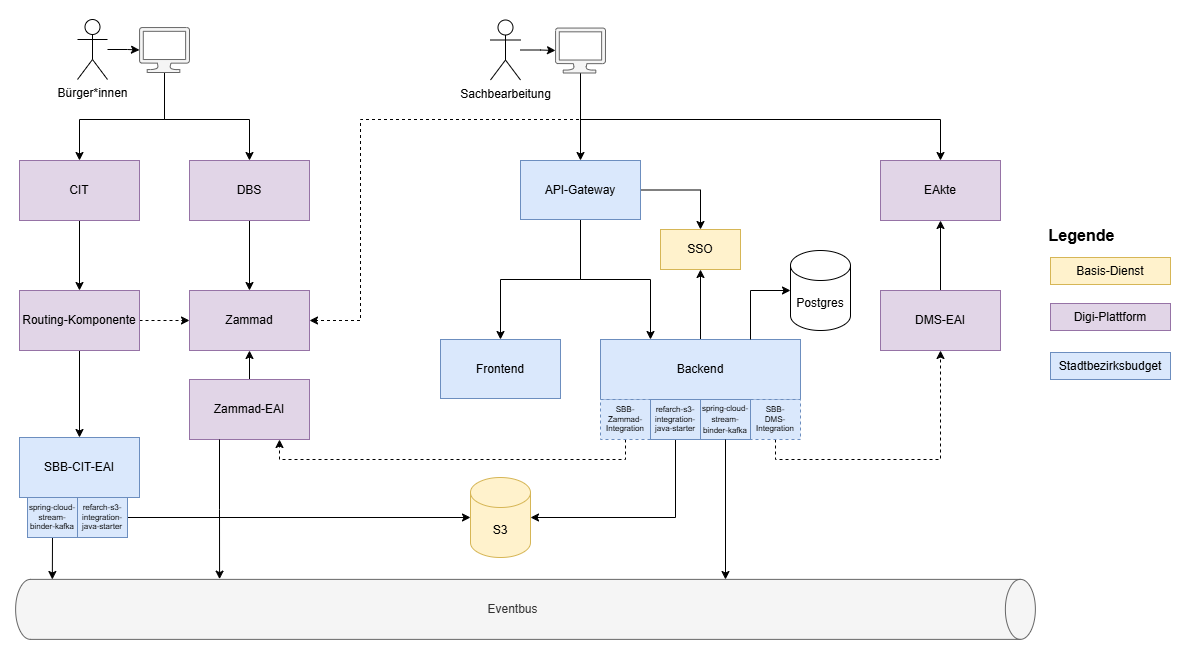
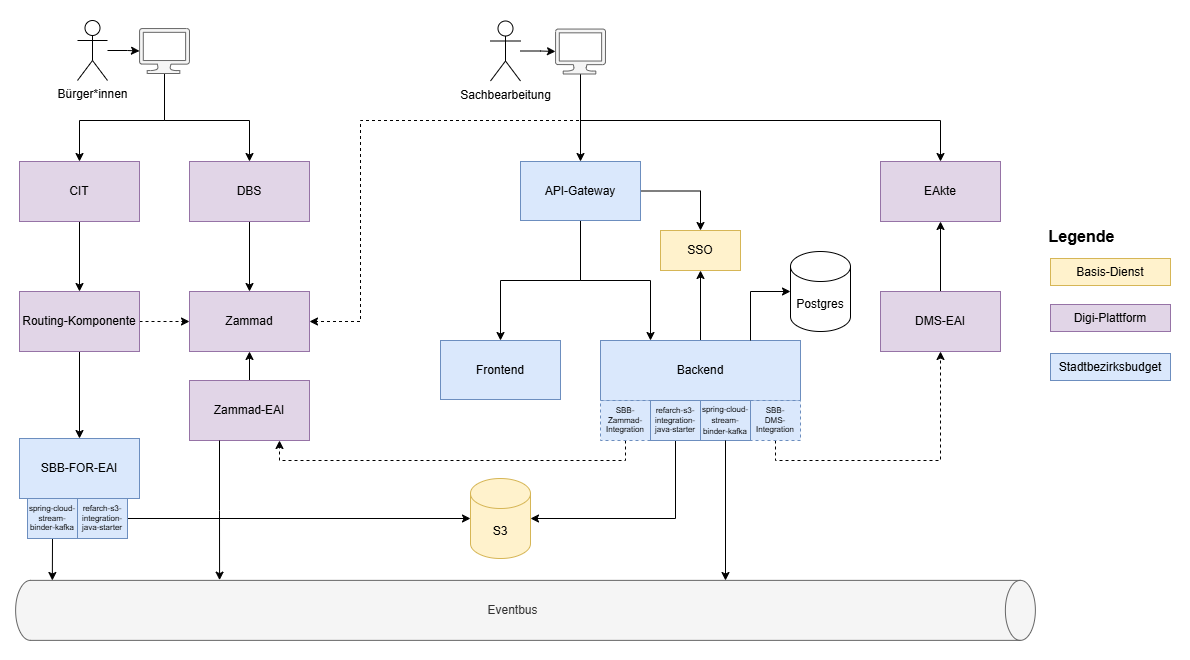
:memo: Change CIT-EAI to FOR-EAI

diff --git a/docs/src/features/reliable-communication.md b/docs/src/features/reliable-communication.md
@@ -12,19 +12,19 @@ Stadtbezirksbudget application itself to be high available.
 flowchart LR
     classDef project stroke: #0f0
     cit[CIT form server]
-    citEai[Stadtbezirksbudget<br>CIT-EAI]
+    forEai[Stadtbezirksbudget<br>FOR-EAI]
     dbs[DBS Zammad]
     dbsEai[Zammad-EAI]
     sbb[Stadtbezirksbudget<br>Backend]
     kafka[(Kafka event bus)]
-    cit --> citEai:::project
-    citEai:::project --> kafka
+    cit --> forEai:::project
+    forEai:::project --> kafka
     dbs --> dbsEai
     dbsEai --> kafka
     kafka --> sbb:::project
 ```
 
-Only the CIT-EAI and the Stadtbezirksbudget application are maintained as part of this project. All other components are operated by other departments.
+Only the FOR-EAI and the Stadtbezirksbudget application are maintained as part of this project. All other components are operated by other departments.
 
 ## Event structure
 
@@ -39,14 +39,14 @@ The communication between the components is based on events. Each event has a ke
 Because we use different packages in the different components, we need to map the classes to each other. This is done by configuring the
 `spring.kafka.properties.spring.json.type.mapping` property in the `application.yml` of the components.
 
-It maps the produced class (in package `de.muenchen.stadtbezirksbudget.cit_eai.*`) to a transfer class (in package `de.muenchen.stadtbezirksbudget.kafka.*`) and
+It maps the produced class (in package `de.muenchen.stadtbezirksbudget.for_eai.*`) to a transfer class (in package `de.muenchen.stadtbezirksbudget.kafka.*`) and
 further in the backend to the consumed class (in package `de.muenchen.stadtbezirksbudget.backend.*`).
 
 ```mermaid
 flowchart LR
-    citEai[CIT-EAI<br>de.muenchen.stadtbezirksbudget.cit_eai.*]
+    forEai[FOR-EAI<br>de.muenchen.stadtbezirksbudget.for_eai.*]
     kafka[(Kafka event bus<br>de.muenchen.stadtbezirksbudget.kafka.*)]
     sbb[Backend<br>de.muenchen.stadtbezirksbudget.backend.*]
-    citEai --> kafka
+    forEai --> kafka
     kafka --> sbb
 ```

diff --git a/docs/src/features/zammad-integration.md b/docs/src/features/zammad-integration.md
@@ -4,19 +4,19 @@ The Zammad integration is utilized to create tickets, users and more within the 
 
 ```mermaid
 flowchart LR
-    citEai[Stadtbezirksbudget<br>CIT-EAI]
+    forEai[Stadtbezirksbudget<br>FOR-EAI]
     dbs[DBS Zammad]
     dbsEai[Zammad-EAI]
     dbs --> dbsEai
     dbsEai --> dbs
-    citEai --> dbsEai
-    dbsEai --> citEai
+    forEai --> dbsEai
+    dbsEai --> forEai
 ```
 
 ## Generated API Client
 
-The package for the API client is `de.muenchen.stadtbezirksbudget.cit_eai.zammad.generated` and it is designed to integrate the cit-eai with the Zammad EAI (Enterprise Application Integration). This enables seamless connection and interaction with the Zammad API.
-The API client is generated using the OpenAPI Maven generator based on the openapi-spec.json file (located inside the resources folder in the cit-eai). This file contains the OpenAPI specification, which defines the endpoints, methods, parameters, and models of the Zammad EAI.
+The package for the API client is `de.muenchen.stadtbezirksbudget.for_eai.zammad.generated` and it is designed to integrate the for-eai with the Zammad EAI (Enterprise Application Integration). This enables seamless connection and interaction with the Zammad API.
+The API client is generated using the OpenAPI Maven generator based on the openapi-spec.json file (located inside the resources folder in the for-eai). This file contains the OpenAPI specification, which defines the endpoints, methods, parameters, and models of the Zammad EAI.
 
 ## Authentication
 

diff --git a/docs/src/architecture/index.md b/docs/src/architecture/index.md
@@ -29,9 +29,9 @@ Application data, except for attachments, is stored in a PostgreSQL database.
 The Form Server is the platform where citizens enter their application data. It serves as the initial point of contact for users, providing a user-friendly
 interface for submitting requests.
 
-### SBB-CIT-EAI
+### SBB-FOR-EAI
 
-The SBB-CIT-EAI component acts as an intermediary, managing the flow of data between the Form Server and the Stadtbezirksbudget application. It ensures that
+The SBB-FOR-EAI component acts as an intermediary, managing the flow of data between the Form Server and the Stadtbezirksbudget application. It ensures that
 information is accurately transmitted via the event bus and an S3 storage.
 
 ### DBS (Zammad)
